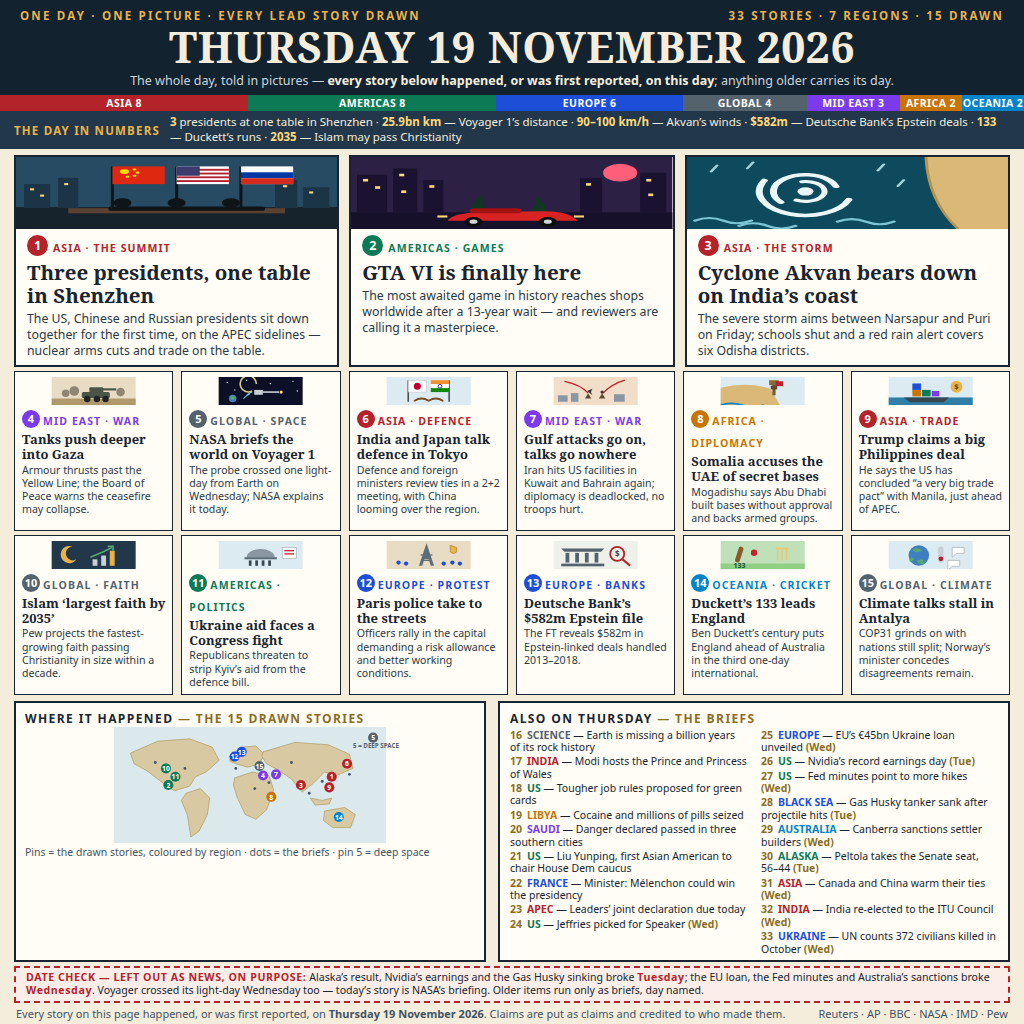
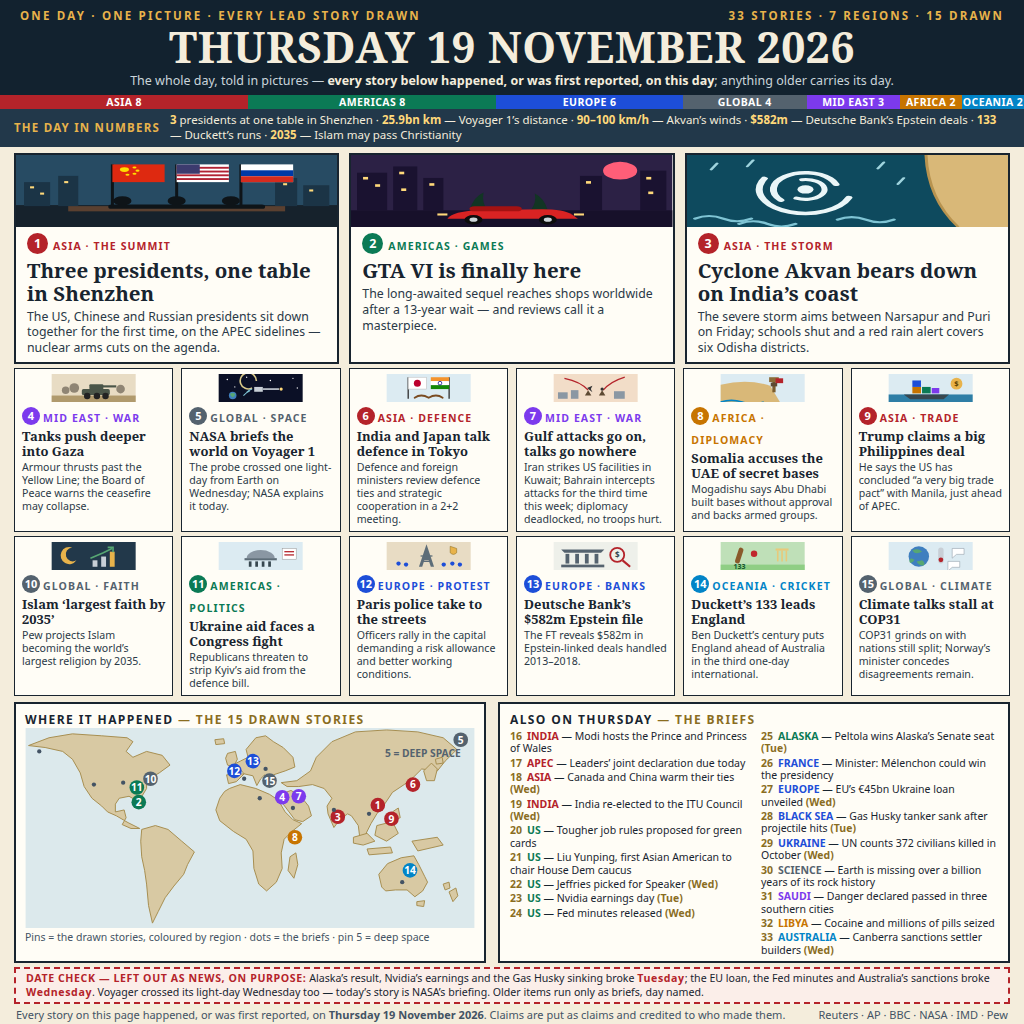
Revision: redraw world map with recognisable continents, reorder briefs into region blocks, full fact re-check vs research

Changed region(s): [[0.0, 0.0938, 1.0, 1.0]]

diff --git a/poster.html b/poster.html
@@ -96,7 +96,7 @@
     <div class="txt">
       <span class="badge c-asia">1</span><span class="tag t-asia">ASIA &middot; THE SUMMIT</span>
       <h2 class="serif">Three presidents, one table in Shenzhen</h2>
-      <p>The US, Chinese and Russian presidents sit down together for the first time, on the APEC sidelines &mdash; nuclear arms cuts and trade on the table.</p>
+      <p>The US, Chinese and Russian presidents sit down together for the first time, on the APEC sidelines &mdash; nuclear arms cuts on the agenda.</p>
     </div>
   </div>
 
@@ -113,7 +113,7 @@
     <div class="txt">
       <span class="badge c-amer">2</span><span class="tag t-amer">AMERICAS &middot; GAMES</span>
       <h2 class="serif">GTA VI is finally here</h2>
-      <p>The most awaited game in history reaches shops worldwide after a 13-year wait &mdash; and reviewers are calling it a masterpiece.</p>
+      <p>The long-awaited sequel reaches shops worldwide after a 13-year wait &mdash; and reviews call it a masterpiece.</p>
     </div>
   </div>
 
@@ -181,13 +181,13 @@
     <svg viewBox="0 0 156 52"><rect width="156" height="52" fill="#dcebf2"/><line x1="40" y1="6" x2="40" y2="46" stroke="#333" stroke-width="2.5"/><line x1="116" y1="6" x2="116" y2="46" stroke="#333" stroke-width="2.5"/><rect x="40" y="6" width="34" height="22" fill="#fff" stroke="#bbb"/><circle cx="57" cy="17" r="6.5" fill="#bc002d"/><g><rect x="82" y="6" width="34" height="7.3" fill="#f4932c"/><rect x="82" y="13.3" width="34" height="7.4" fill="#fff"/><rect x="82" y="20.7" width="34" height="7.3" fill="#138808"/><circle cx="99" cy="17" r="3.4" fill="none" stroke="#000080" stroke-width="1.4"/></g><path d="M52 44 q12-8 26 0 q14-8 26 0" fill="none" stroke="#7a4b21" stroke-width="3.4" stroke-linecap="round"/></svg>
     <span class="badge c-asia">6</span><span class="tag t-asia">ASIA &middot; DEFENCE</span>
     <h3 class="serif">India and Japan talk defence in Tokyo</h3>
-    <p>Defence and foreign ministers review ties in a 2+2 meeting, with China looming over the region.</p>
+    <p>Defence and foreign ministers review defence ties and strategic cooperation in a 2+2 meeting.</p>
   </div>
   <div class="card">
     <svg viewBox="0 0 156 52"><rect width="156" height="52" fill="#f2ddc8"/><g fill="#8a97a3"><rect x="8" y="34" width="18" height="12"/><rect x="32" y="30" width="14" height="16"/><rect x="112" y="32" width="20" height="14"/></g><g stroke="#B4232A" stroke-width="2.4" fill="none"><path d="M20 8 q30 6 44 22"/><path d="M132 6 q-26 8-40 24"/></g><g fill="#333"><path d="M62 26 l10-4-3 6 3 6z"/><circle cx="90" cy="28" r="3"/></g><g fill="#5d4a33"><path d="M58 40 l6-10 6 10z M84 40 l6-10 6 10z"/></g></svg>
     <span class="badge c-me">7</span><span class="tag t-me">MID EAST &middot; WAR</span>
     <h3 class="serif">Gulf attacks go on, talks go nowhere</h3>
-    <p>Iran hits US facilities in Kuwait and Bahrain again; diplomacy is deadlocked, no troops hurt.</p>
+    <p>Iran strikes US facilities in Kuwait; Bahrain intercepts attacks for the third time this week; diplomacy deadlocked, no troops hurt.</p>
   </div>
   <div class="card">
     <svg viewBox="0 0 156 52"><rect width="156" height="52" fill="#dcebf2"/><path d="M0 52 L0 20 Q50 8 92 22 L110 52z" fill="#d9b878"/><rect x="96" y="8" width="6" height="26" fill="#7a5c2e"/><rect x="90" y="6" width="18" height="9" fill="#8a6a38"/><rect x="93" y="16" width="12" height="7" fill="#5d4a33"/><rect x="102" y="8" width="14" height="9" fill="#B4232A"/><path d="M0 52 q20-6 40 0 t40 0" fill="none" stroke="#0284C7" stroke-width="3"/></svg>
@@ -208,7 +208,7 @@
     <svg viewBox="0 0 156 52"><rect width="156" height="52" fill="#22384A"/><path d="M38 10 a13 13 0 1 0 8 24 a16 16 0 1 1-8-24z" fill="#E8B34B"/><rect x="76" y="34" width="9" height="12" fill="#c8cfd6"/><rect x="92" y="27" width="9" height="19" fill="#c8cfd6"/><rect x="108" y="18" width="9" height="28" fill="#E8B34B"/><path d="M72 30 L96 20 L112 12" stroke="#57a773" stroke-width="3" fill="none"/><path d="M104 10 h10 v9" stroke="#57a773" stroke-width="3" fill="none"/></svg>
     <span class="badge c-glob">10</span><span class="tag t-glob">GLOBAL &middot; FAITH</span>
     <h3 class="serif">Islam &lsquo;largest faith by 2035&rsquo;</h3>
-    <p>Pew projects the fastest-growing faith passing Christianity in size within a decade.</p>
+    <p>Pew projects Islam becoming the world&rsquo;s largest religion by 2035.</p>
   </div>
   <div class="card">
     <svg viewBox="0 0 156 52"><rect width="156" height="52" fill="#dcebf2"/><path d="M52 30 a26 15 0 0 1 52 0z" fill="#8a97a3"/><rect x="48" y="30" width="60" height="4" fill="#5d6d78"/><g fill="#37474f"><rect x="56" y="36" width="5" height="10"/><rect x="68" y="36" width="5" height="10"/><rect x="80" y="36" width="5" height="10"/><rect x="92" y="36" width="5" height="10"/></g><rect x="118" y="12" width="26" height="20" fill="#fff" stroke="#999"/><line x1="122" y1="18" x2="140" y2="18" stroke="#B4232A" stroke-width="2.4"/><line x1="122" y1="24" x2="140" y2="24" stroke="#B4232A" stroke-width="2.4"/></svg>
@@ -237,7 +237,7 @@
   <div class="card">
     <svg viewBox="0 0 156 52"><rect width="156" height="52" fill="#dcebf2"/><circle cx="56" cy="27" r="19" fill="#3f7fbf"/><path d="M44 16 q10-6 18 2 q-8 4-14 2z M62 34 q8 6 2 10 q-10-2-12-8z M42 30 q-6 4-2 9 q6-1 8-6z" fill="#57a773"/><rect x="92" y="10" width="10" height="30" rx="5" fill="#c8cfd6"/><circle cx="97" cy="33" r="4.4" fill="#B4232A"/><path d="M118 12 h22 v11 h-14 l-8 7z" fill="#fff" stroke="#8a97a3"/><path d="M118 32 h22 v11 h-14 l-8 7z" fill="#fff" stroke="#8a97a3" transform="translate(-8 4)"/></svg>
     <span class="badge c-glob">15</span><span class="tag t-glob">GLOBAL &middot; CLIMATE</span>
-    <h3 class="serif">Climate talks stall in Antalya</h3>
+    <h3 class="serif">Climate talks stall at COP31</h3>
     <p>COP31 grinds on with nations still split; Norway&rsquo;s minister concedes disagreements remain.</p>
   </div>
 </div>
@@ -245,36 +245,49 @@
 <div class="bottom">
   <div class="mapbox">
     <h4>WHERE IT HAPPENED <span>&mdash; THE 15 DRAWN STORIES</span></h4>
-    <svg viewBox="0 0 460 196" style="display:block;width:100%;height:116px" preserveAspectRatio="xMidYMid meet">
-      <rect width="460" height="196" fill="#DCE9EC"/>
+    <svg viewBox="0 0 460 205" style="display:block;width:100%;height:200px" preserveAspectRatio="xMidYMid meet">
+      <rect width="460" height="205" fill="#DCE9EC"/>
       <g fill="#D8C9A3" stroke="#A68D4F" stroke-width="1">
-        <path d="M28 44 L74 24 L128 20 L166 34 L178 56 L156 76 L138 84 L128 100 L102 108 L82 94 L56 74 L34 62z"/>
-        <path d="M122 112 L146 104 L162 120 L158 148 L144 176 L130 186 L124 148 L114 124z"/>
-        <path d="M196 48 L216 34 L240 32 L254 46 L246 62 L226 68 L206 62 L196 58z"/>
-        <path d="M204 86 L234 76 L262 82 L270 106 L258 140 L240 156 L222 148 L208 118 L202 98z"/>
-        <path d="M252 42 L306 26 L362 30 L398 46 L404 70 L376 82 L356 76 L336 96 L318 110 L300 88 L280 74 L258 62 L250 50z"/>
-        <path d="M332 120 L352 124 L368 120 L364 130 L340 132z"/>
-        <path d="M356 142 L390 136 L408 148 L400 170 L370 170 L354 158z"/>
+        <path d="M3 18 L24 10 L48 6 L78 8 L104 10 L110 14 L103 24 L110 30 L124 24 L140 28 L148 38 L137 46 L130 50 L124 54 L124 62 L118 72 L115 75 L106 70 L96 72 L92 78 L92 86 L101 84 L103 92 L99 99 L108 103 L117 103 L105 97 L93 90 L84 86 L78 80 L68 72 L60 60 L56 46 L48 32 L38 24 L20 20 Z"/>
+        <path d="M119 104 L133 100 L146 104 L160 116 L173 127 L166 140 L162 150 L152 162 L143 174 L136 188 L130 200 L126 182 L124 160 L122 146 L119 132 L118 116 Z"/>
+        <path d="M206 48 L208 57 L216 55 L224 47 L218 40 L212 38 L220 34 L228 30 L226 22 L236 10 L246 8 L254 14 L264 20 L274 30 L276 40 L266 44 L254 48 L249 57 L245 48 L241 52 L237 59 L233 49 L224 47 Z"/>
+        <path d="M207 26 L215 24 L217 32 L213 40 L207 38 L205 31 Z"/>
+        <path d="M194 12 L203 11 L204 16 L195 17 Z"/>
+        <path d="M209 62 L220 58 L236 62 L250 68 L259 74 L266 86 L274 94 L283 98 L273 106 L265 114 L262 128 L263 144 L257 158 L247 167 L239 160 L234 144 L233 126 L226 114 L213 106 L199 95 L195 84 L199 72 L204 65 Z"/>
+        <path d="M271 132 L277 128 L279 140 L275 154 L269 146 Z"/>
+        <path d="M261 68 L272 64 L282 70 L290 80 L293 90 L284 96 L276 94 L270 86 L264 78 Z"/>
+        <path d="M262 56 L278 54 L292 44 L298 30 L314 14 L338 4 L370 2 L402 4 L428 10 L442 22 L430 34 L422 44 L406 42 L398 50 L388 58 L376 66 L368 78 L360 88 L354 98 L348 110 L343 116 L341 100 L334 90 L330 88 L322 94 L316 102 L310 88 L309 80 L314 72 L306 62 L294 58 L280 60 L268 60 Z"/>
+        <path d="M336 112 L350 108 L358 116 L346 120 L336 118 Z"/>
+        <path d="M360 100 L376 96 L382 108 L370 116 L358 110 Z"/>
+        <path d="M350 124 L374 122 L376 128 L352 130 Z"/>
+        <path d="M396 116 L422 112 L428 120 L402 126 Z"/>
+        <path d="M408 44 L416 36 L422 42 L419 54 L411 54 Z"/>
+        <path d="M420 32 L427 30 L428 36 L421 37 Z"/>
+        <path d="M376 86 L382 82 L384 92 L378 94 Z"/>
+        <path d="M365 163 L362 150 L371 139 L385 133 L398 131 L403 140 L409 152 L412 158 L407 167 L399 173 L391 166 L379 166 L369 167 Z"/>
+        <path d="M401 178 L409 177 L408 183 L401 182 Z"/>
+        <path d="M434 168 L441 164 L443 172 L438 178 Z"/>
+        <path d="M428 160 L434 158 L435 164 L430 166 Z"/>
       </g>
-      <g font-size="11.5" font-weight="700" text-anchor="middle">
-        <circle cx="88" cy="70" r="8.5" fill="#0B7A55"/><text x="88" y="74.5" fill="#fff">10</text>
-        <circle cx="104" cy="84" r="8.5" fill="#0B7A55"/><text x="104" y="88.5" fill="#fff">11</text>
-        <circle cx="92" cy="98" r="8.5" fill="#0B7A55"/><text x="92" y="102.5" fill="#fff">2</text>
-        <circle cx="204" cy="50" r="8.5" fill="#1D4ED8"/><text x="204" y="54.5" fill="#fff">12</text>
-        <circle cx="216" cy="42" r="8.5" fill="#1D4ED8"/><text x="216" y="46.5" fill="#fff">13</text>
-        <circle cx="246" cy="66" r="8.5" fill="#54626E"/><text x="246" y="70.5" fill="#fff">15</text>
-        <circle cx="252" cy="82" r="8.5" fill="#7C3AED"/><text x="252" y="86.5" fill="#fff">4</text>
-        <circle cx="274" cy="80" r="8.5" fill="#7C3AED"/><text x="274" y="84.5" fill="#fff">7</text>
-        <circle cx="266" cy="118" r="8.5" fill="#C77400"/><text x="266" y="122.5" fill="#fff">8</text>
-        <circle cx="316" cy="98" r="8.5" fill="#B4232A"/><text x="316" y="102.5" fill="#fff">3</text>
-        <circle cx="368" cy="84" r="8.5" fill="#B4232A"/><text x="368" y="88.5" fill="#fff">1</text>
-        <circle cx="364" cy="102" r="8.5" fill="#B4232A"/><text x="364" y="106.5" fill="#fff">9</text>
-        <circle cx="394" cy="62" r="8.5" fill="#B4232A"/><text x="394" y="66.5" fill="#fff">6</text>
-        <circle cx="380" cy="152" r="8.5" fill="#0284C7"/><text x="380" y="156.5" fill="#fff">14</text>
-        <circle cx="438" cy="18" r="8.5" fill="#54626E"/><text x="438" y="22.5" fill="#fff">5</text>
+      <g font-size="10.5" font-weight="700" text-anchor="middle">
+        <circle cx="128" cy="52" r="7.5" fill="#54626E"/><text x="128" y="56" fill="#fff">10</text>
+        <circle cx="114" cy="61" r="7.5" fill="#0B7A55"/><text x="114" y="65" fill="#fff">11</text>
+        <circle cx="116" cy="76" r="7.5" fill="#0B7A55"/><text x="116" y="80" fill="#fff">2</text>
+        <circle cx="214" cy="44" r="7.5" fill="#1D4ED8"/><text x="214" y="48" fill="#fff">12</text>
+        <circle cx="233" cy="34" r="7.5" fill="#1D4ED8"/><text x="233" y="38" fill="#fff">13</text>
+        <circle cx="250" cy="54" r="7.5" fill="#54626E"/><text x="250" y="58" fill="#fff">15</text>
+        <circle cx="263" cy="71" r="7.5" fill="#7C3AED"/><text x="263" y="75" fill="#fff">4</text>
+        <circle cx="280" cy="70" r="7.5" fill="#7C3AED"/><text x="280" y="74" fill="#fff">7</text>
+        <circle cx="276" cy="112" r="7.5" fill="#C77400"/><text x="276" y="116" fill="#fff">8</text>
+        <circle cx="320" cy="91" r="7.5" fill="#B4232A"/><text x="320" y="95" fill="#fff">3</text>
+        <circle cx="361" cy="79" r="7.5" fill="#B4232A"/><text x="361" y="83" fill="#fff">1</text>
+        <circle cx="375" cy="93" r="7.5" fill="#B4232A"/><text x="375" y="97" fill="#fff">9</text>
+        <circle cx="397" cy="58" r="7.5" fill="#B4232A"/><text x="397" y="62" fill="#fff">6</text>
+        <circle cx="394" cy="146" r="7.5" fill="#0284C7"/><text x="394" y="150" fill="#fff">14</text>
+        <circle cx="446" cy="12" r="7.5" fill="#54626E"/><text x="446" y="16" fill="#fff">5</text>
       </g>
-      <text x="404" y="36" font-size="10.5" font-weight="700" fill="#54626E">5 = DEEP SPACE</text>
-      <g fill="#435364"><circle cx="70" cy="60" r="2.4"/><circle cx="300" cy="60" r="2.4"/><circle cx="330" cy="112" r="2.4"/><circle cx="238" cy="104" r="2.4"/><circle cx="206" cy="70" r="2.4"/><circle cx="352" cy="92" r="2.4"/><circle cx="398" cy="80" r="2.4"/><circle cx="120" cy="70" r="2.4"/><circle cx="262" cy="94" r="2.4"/></g>
+      <text x="446" y="30" font-size="10.5" font-weight="700" fill="#54626E" text-anchor="end">5 = DEEP SPACE</text>
+      <g fill="#435364"><circle cx="100" cy="56" r="2.2"/><circle cx="70" cy="58" r="2.2"/><circle cx="14" cy="24" r="2.2"/><circle cx="240" cy="72" r="2.2"/><circle cx="274" cy="82" r="2.2"/><circle cx="316" cy="84" r="2.2"/><circle cx="352" cy="88" r="2.2"/><circle cx="386" cy="158" r="2.2"/><circle cx="224" cy="52" r="2.2"/><circle cx="246" cy="42" r="2.2"/></g>
     </svg>
     <div class="legend">Pins = the drawn stories, coloured by region &middot; dots = the briefs &middot; pin 5 = deep space</div>
   </div>
@@ -282,26 +295,26 @@
     <h4>ALSO ON THURSDAY <span>&mdash; THE BRIEFS</span></h4>
     <div class="briefs">
       <div class="col">
-        <div class="brief"><span class="n">16</span><b class="t-glob">SCIENCE</b> &mdash; Earth is missing a billion years of its rock history</div>
-        <div class="brief"><span class="n">17</span><b class="t-asia">INDIA</b> &mdash; Modi hosts the Prince and Princess of Wales</div>
-        <div class="brief"><span class="n">18</span><b class="t-amer">US</b> &mdash; Tougher job rules proposed for green cards</div>
-        <div class="brief"><span class="n">19</span><b class="t-afr">LIBYA</b> &mdash; Cocaine and millions of pills seized</div>
-        <div class="brief"><span class="n">20</span><b class="t-me">SAUDI</b> &mdash; Danger declared passed in three southern cities</div>
+        <div class="brief"><span class="n">16</span><b class="t-asia">INDIA</b> &mdash; Modi hosts the Prince and Princess of Wales</div>
+        <div class="brief"><span class="n">17</span><b class="t-asia">APEC</b> &mdash; Leaders&rsquo; joint declaration due today</div>
+        <div class="brief"><span class="n">18</span><b class="t-asia">ASIA</b> &mdash; Canada and China warm their ties <span class="day">(Wed)</span></div>
+        <div class="brief"><span class="n">19</span><b class="t-asia">INDIA</b> &mdash; India re-elected to the ITU Council <span class="day">(Wed)</span></div>
+        <div class="brief"><span class="n">20</span><b class="t-amer">US</b> &mdash; Tougher job rules proposed for green cards</div>
         <div class="brief"><span class="n">21</span><b class="t-amer">US</b> &mdash; Liu Yunping, first Asian American to chair House Dem caucus</div>
-        <div class="brief"><span class="n">22</span><b class="t-eur">FRANCE</b> &mdash; Minister: M&eacute;lenchon could win the presidency</div>
-        <div class="brief"><span class="n">23</span><b class="t-asia">APEC</b> &mdash; Leaders&rsquo; joint declaration due today</div>
-        <div class="brief"><span class="n">24</span><b class="t-amer">US</b> &mdash; Jeffries picked for Speaker <span class="day">(Wed)</span></div>
+        <div class="brief"><span class="n">22</span><b class="t-amer">US</b> &mdash; Jeffries picked for Speaker <span class="day">(Wed)</span></div>
+        <div class="brief"><span class="n">23</span><b class="t-amer">US</b> &mdash; Nvidia earnings day <span class="day">(Tue)</span></div>
+        <div class="brief"><span class="n">24</span><b class="t-amer">US</b> &mdash; Fed minutes released <span class="day">(Wed)</span></div>
       </div>
       <div class="col">
-        <div class="brief"><span class="n">25</span><b class="t-eur">EUROPE</b> &mdash; EU&rsquo;s &euro;45bn Ukraine loan unveiled <span class="day">(Wed)</span></div>
-        <div class="brief"><span class="n">26</span><b class="t-amer">US</b> &mdash; Nvidia&rsquo;s record earnings day <span class="day">(Tue)</span></div>
-        <div class="brief"><span class="n">27</span><b class="t-amer">US</b> &mdash; Fed minutes point to more hikes <span class="day">(Wed)</span></div>
+        <div class="brief"><span class="n">25</span><b class="t-amer">ALASKA</b> &mdash; Peltola wins Alaska&rsquo;s Senate seat <span class="day">(Tue)</span></div>
+        <div class="brief"><span class="n">26</span><b class="t-eur">FRANCE</b> &mdash; Minister: M&eacute;lenchon could win the presidency</div>
+        <div class="brief"><span class="n">27</span><b class="t-eur">EUROPE</b> &mdash; EU&rsquo;s &euro;45bn Ukraine loan unveiled <span class="day">(Wed)</span></div>
         <div class="brief"><span class="n">28</span><b class="t-eur">BLACK SEA</b> &mdash; Gas Husky tanker sank after projectile hits <span class="day">(Tue)</span></div>
-        <div class="brief"><span class="n">29</span><b class="t-oce">AUSTRALIA</b> &mdash; Canberra sanctions settler builders <span class="day">(Wed)</span></div>
-        <div class="brief"><span class="n">30</span><b class="t-amer">ALASKA</b> &mdash; Peltola takes the Senate seat, 56&ndash;44 <span class="day">(Tue)</span></div>
-        <div class="brief"><span class="n">31</span><b class="t-asia">ASIA</b> &mdash; Canada and China warm their ties <span class="day">(Wed)</span></div>
-        <div class="brief"><span class="n">32</span><b class="t-asia">INDIA</b> &mdash; India re-elected to the ITU Council <span class="day">(Wed)</span></div>
-        <div class="brief"><span class="n">33</span><b class="t-eur">UKRAINE</b> &mdash; UN counts 372 civilians killed in October <span class="day">(Wed)</span></div>
+        <div class="brief"><span class="n">29</span><b class="t-eur">UKRAINE</b> &mdash; UN counts 372 civilians killed in October <span class="day">(Wed)</span></div>
+        <div class="brief"><span class="n">30</span><b class="t-glob">SCIENCE</b> &mdash; Earth is missing over a billion years of its rock history</div>
+        <div class="brief"><span class="n">31</span><b class="t-me">SAUDI</b> &mdash; Danger declared passed in three southern cities</div>
+        <div class="brief"><span class="n">32</span><b class="t-afr">LIBYA</b> &mdash; Cocaine and millions of pills seized</div>
+        <div class="brief"><span class="n">33</span><b class="t-oce">AUSTRALIA</b> &mdash; Canberra sanctions settler builders <span class="day">(Wed)</span></div>
       </div>
     </div>
   </div>
